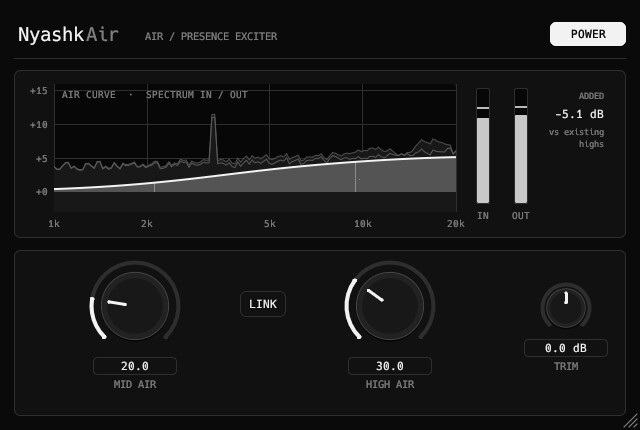
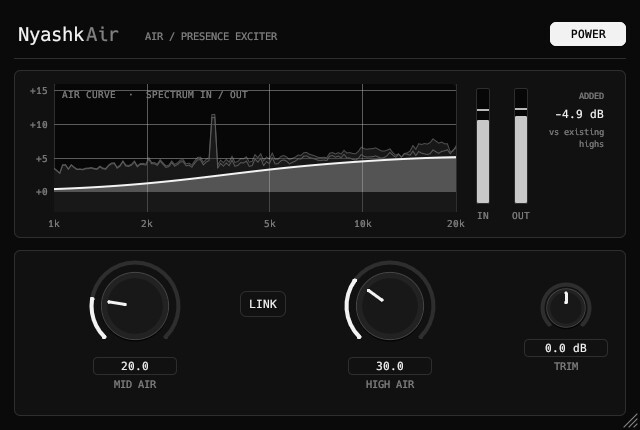
v1.0.2: CPU renderer fill rule, grid over the spectrum, value boxes (gap, fit, units), parameter text test
Claude-Session: https://claude.ai/code/session_013jKKu2jZ6gVHt6eEoTXE3F

diff --git a/vendor/egui-baseview/src/renderer/software.rs b/vendor/egui-baseview/src/renderer/software.rs
@@ -276,6 +276,23 @@ fn raster_triangle(
     let a0 = (p1y - p2y) * inv_area;
     let a1 = (p2y - p0y) * inv_area;
     let a2 = -a0 - a1;
+    // d(w)/dy per pixel, for the fill rule
+    let b0 = (p2x - p1x) * inv_area;
+    let b1 = (p0x - p2x) * inv_area;
+    let b2 = -b0 - b1;
+    // Exact coverage with the top-left fill rule (as GPUs do). The edge function of a shared
+    // edge is bitwise the negation in the neighbouring triangle, so every pixel centre belongs
+    // to exactly one of them: no double-drawn seams or specks, no holes.
+    let top_left = |a: f32, b: f32| a > 0.0 || (a == 0.0 && b > 0.0);
+    let (tl0, tl1, tl2) = (top_left(a0, b0), top_left(a1, b1), top_left(a2, b2));
+    let sgn = if area > 0.0 { 1.0f32 } else { -1.0 };
+    let edge = |ax: f32, ay: f32, bx: f32, by: f32, px: f32, py: f32| (ax - px) * (by - py) - (ay - py) * (bx - px);
+    let inside = |px: f32, py: f32| -> bool {
+        let e0 = edge(p1x, p1y, p2x, p2y, px, py) * sgn;
+        let e1 = edge(p2x, p2y, p0x, p0y, px, py) * sgn;
+        let e2 = edge(p0x, p0y, p1x, p1y, px, py) * sgn;
+        (e0 > 0.0 || (e0 == 0.0 && tl0)) && (e1 > 0.0 || (e1 == 0.0 && tl1)) && (e2 > 0.0 || (e2 == 0.0 && tl2))
+    };
     const EPS: f32 = -1e-4;
     let n = (max_x - min_x) as f32;
     // constant texel for solid-uv triangles
@@ -305,10 +322,21 @@ fn raster_triangle(
                 empty = true;
             }
         }
-        if empty || klo > khi {
+        if empty {
             continue;
         }
-        let (k0, k1) = (klo as i32, khi as i32);
+        // the estimate above can be off by a pixel at the ends: settle them exactly
+        let (mut k0, mut k1) = ((klo as i32 - 1).max(0), (khi as i32 + 1).min(max_x - min_x - 1));
+        let cx = |k: i32| (min_x + k) as f32 + 0.5;
+        while k0 <= k1 && !inside(cx(k0), py) {
+            k0 += 1;
+        }
+        while k1 >= k0 && !inside(cx(k1), py) {
+            k1 -= 1;
+        }
+        if k0 > k1 {
+            continue;
+        }
         let row = (y * stride + min_x) as usize;
         if let Some((sr, sg, sb, sa)) = const_src {
             if sa == 0 && sr == 0 && sg == 0 && sb == 0 {
@@ -355,6 +383,88 @@ fn raster_triangle(
             }
             let o = row + k as usize;
             fb[o] = blend(fb[o], sr, sg, sb, sa);
+        }
+    }
+}
+
+#[cfg(test)]
+mod raster_tests {
+    use super::*;
+    use egui::epaint::{Vertex, WHITE_UV};
+    use egui::{Color32, Pos2};
+
+    /// Rasterise a fill strip (like a spectrum) and return the framebuffer.
+    fn strip(n: usize, ppp: f32) -> (Vec<u32>, i32, i32) {
+        let (w, h) = (300i32, 150i32);
+        let mut fb = vec![pack(0, 0, 0); (w * h) as usize];
+        let tex = Tex { w: 1, h: 1, px: vec![Color32::WHITE] };
+        let col = Color32::from_white_alpha(26);
+        let mut verts = Vec::new();
+        for i in 0..=n {
+            let x = 10.0 + 170.0 * i as f32 / n as f32;
+            let y = 30.0 + 10.0 * ((i as f32) * 0.7).sin();
+            verts.push(Vertex { pos: Pos2::new(x, y), uv: WHITE_UV, color: col });
+            verts.push(Vertex { pos: Pos2::new(x, 90.0), uv: WHITE_UV, color: col });
+        }
+        for i in 1..=n {
+            let k = 2 * i;
+            for t in [[k - 2, k - 1, k], [k - 1, k + 1, k]] {
+                raster_triangle(&mut fb, w, (0, 0, w, h), ppp, &tex, &verts[t[0]], &verts[t[1]], &verts[t[2]]);
+            }
+        }
+        (fb, w, h)
+    }
+
+    /// A fan of thin and fat triangles (like a rounded rectangle): no holes, nothing twice.
+    #[test]
+    fn fans_have_no_holes() {
+        let (w, h) = (300i32, 200i32);
+        for ppp in [1.0f32, 1.25, 1.5, 2.0] {
+            let mut fb = vec![pack(0, 0, 0); (w * h) as usize];
+            let tex = Tex { w: 1, h: 1, px: vec![Color32::WHITE] };
+            let col = Color32::from_white_alpha(26);
+            let c = Pos2::new(70.3, 60.7);
+            let n = 23;
+            let pts: Vec<Pos2> = (0..n).map(|i| {
+                let a = i as f32 / n as f32 * std::f32::consts::TAU;
+                let r = if i % 3 == 0 { 50.0 } else { 47.3 };
+                Pos2::new(c.x + r * a.cos(), c.y + r * 0.8 * a.sin())
+            }).collect();
+            let v = |p: Pos2| Vertex { pos: p, uv: WHITE_UV, color: col };
+            for i in 1..n - 1 {
+                raster_triangle(&mut fb, w, (0, 0, w, h), ppp, &tex, &v(pts[0]), &v(pts[i]), &v(pts[i + 1]));
+            }
+            let mut bad = 0;
+            for y in ((c.y - 25.0) * ppp) as i32..((c.y + 25.0) * ppp) as i32 {
+                for x in ((c.x - 30.0) * ppp) as i32..((c.x + 30.0) * ppp) as i32 {
+                    let val = fb[(y * w + x) as usize] & 255;
+                    if !(89..=91).contains(&val) {
+                        bad += 1;
+                    }
+                }
+            }
+            assert_eq!(bad, 0, "ppp {ppp}: {bad} pixels with a hole or drawn twice");
+        }
+    }
+
+    #[test]
+    fn shared_edges_are_drawn_once() {
+        for (n, ppp) in [(37usize, 1.0f32), (170, 1.0), (85, 1.0), (300, 1.0), (85, 1.5)] {
+            let (fb, w, _) = strip(n, ppp);
+            // egui encodes white_alpha(26) in gamma space: one layer over black = 90, two = ~171
+            let mut over = 0;
+            let mut seen = std::collections::BTreeMap::new();
+            for y in (42.0 * ppp) as i32..(88.0 * ppp) as i32 {
+                for x in (12.0 * ppp) as i32..(178.0 * ppp) as i32 {
+                    let v = fb[(y * w + x) as usize] & 255;
+                    *seen.entry(v).or_insert(0) += 1;
+                    if v > 91 || v < 89 {
+                        over += 1;
+                    }
+                }
+            }
+            println!("n {n} ppp {ppp}: values {seen:?}");
+            assert_eq!(over, 0, "{over} pixels drawn more than once (n {n}, ppp {ppp})");
         }
     }
 }

diff --git a/crates/common/src/ui.rs b/crates/common/src/ui.rs
@@ -147,7 +147,8 @@ pub fn knob_ac<P: Param>(ui: &mut Ui, setter: &ParamSetter, p: &P, label: &str, 
 
     // value + label (click the value box to type a number)
     let val = p.normalized_value_to_string(norm, true);
-    let vr = Rect::from_center_size(Pos2::new(cell.center().x, c.y + r + 14.0), Vec2::new(cell.width().min(84.0), 18.0));
+    // a small gap to the neighbouring boxes
+    let vr = Rect::from_center_size(Pos2::new(cell.center().x, c.y + r + 14.0), Vec2::new((cell.width() - 6.0).min(84.0), 18.0));
     let edit_id = egui::Id::new(("knob_edit", label, p.name()));
     let editing: Option<String> = ui.data(|d| d.get_temp::<String>(edit_id));
     painter_label(ui, cell, vr, label);
@@ -180,9 +181,16 @@ pub fn knob_ac<P: Param>(ui: &mut Ui, setter: &ParamSetter, p: &P, label: &str, 
         let vresp = ui.allocate_rect(vr, Sense::click()).on_hover_text("Click to type a value");
         let painter = ui.painter();
         painter.rect_stroke(vr, CornerRadius::same(4), Stroke::new(1.0, if vresp.hovered() { DIM } else { LINE }), StrokeKind::Inside);
-        painter.text(vr.center(), Align2::CENTER_CENTER, &val, mono(11.0), WHITE);
+        // shrink the text if it would not fit the box
+        let gw = ui.fonts(|f| f.layout_no_wrap(val.clone(), mono(11.0), WHITE).size().x);
+        let size = if gw > vr.width() - 6.0 { (11.0 * (vr.width() - 6.0) / gw).max(7.5) } else { 11.0 };
+        painter.text(vr.center(), Align2::CENTER_CENTER, &val, mono(size), WHITE);
         if vresp.clicked() {
-            let plain = val.trim().split(' ').next().unwrap_or("").to_string();
+            // start editing with the bare number, unless the number alone would mean something
+            // else (e.g. "1.03 s" -> "1.03" would be read as milliseconds): then keep the full text
+            let first = val.trim().split(' ').next().unwrap_or("").to_string();
+            let same = p.string_to_normalized_value(&first).map(|m| p.normalized_value_to_string(m, true)).as_deref() == Some(val.as_str());
+            let plain = if same { first } else { val.trim().to_string() };
             ui.data_mut(|d| d.insert_temp(edit_id, plain));
         }
     }
@@ -315,18 +323,20 @@ pub fn led(ui: &Ui, c: Pos2, on: bool) {
 /// Fill the area between a polyline and the horizontal line `base_y`.
 /// egui fills only convex polygons, so a spectrum has to be drawn as a strip of quads.
 pub fn fill_under(painter: &egui::Painter, pts: &[Pos2], base_y: f32, color: Color32) {
+    // one triangle strip with shared vertices: neighbouring columns never overlap, so a
+    // translucent fill stays even (no brighter seams or specks)
     if pts.len() < 2 {
         return;
     }
     let mut mesh = egui::epaint::Mesh::default();
-    let uv = egui::epaint::WHITE_UV;
-    for w in pts.windows(2) {
-        let (a, b) = (w[0], w[1]);
-        let i = mesh.vertices.len() as u32;
-        for p in [a, b, Pos2::new(b.x, base_y), Pos2::new(a.x, base_y)] {
-            mesh.vertices.push(egui::epaint::Vertex { pos: p, uv, color });
+    for (i, q) in pts.iter().enumerate() {
+        mesh.colored_vertex(*q, color);
+        mesh.colored_vertex(Pos2::new(q.x, base_y), color);
+        if i > 0 {
+            let k = (2 * i) as u32;
+            mesh.add_triangle(k - 2, k - 1, k);
+            mesh.add_triangle(k - 1, k + 1, k);
         }
-        mesh.indices.extend_from_slice(&[i, i + 1, i + 2, i, i + 2, i + 3]);
     }
     painter.add(egui::Shape::mesh(mesh));
 }

diff --git a/plugins/nyashkair/tests/param_text.rs b/plugins/nyashkair/tests/param_text.rs
@@ -1,0 +1,37 @@
+//! Parameter texts: typing back what the plugin shows must give the same value (click a value
+//! box, press Enter: nothing may change), and no value may show as "-0".
+use nih_plug::prelude::*;
+
+#[test]
+fn displayed_values_parse_back() {
+    let p = nyashkair::AirParams::default();
+    let mut bad: Vec<String> = Vec::new();
+    for (id, ptr, _) in p.param_map() {
+        let mut reported = false;
+        for i in 0..=400 {
+            let n = i as f32 / 400.0;
+            let (shown, bare) = unsafe { (ptr.normalized_value_to_string(n, true), ptr.normalized_value_to_string(n, false)) };
+            // what a value box starts editing with: the bare number, or the full text when the
+            // number alone would mean something else
+            let first = shown.trim().split(' ').next().unwrap_or("").to_string();
+            let same = unsafe { ptr.string_to_normalized_value(&first).map(|m| ptr.normalized_value_to_string(m, true)) }.as_deref() == Some(shown.as_str());
+            let prefill = if same { first } else { shown.trim().to_string() };
+            for txt in [shown.clone(), bare.clone(), prefill] {
+                let back = unsafe { ptr.string_to_normalized_value(&txt).map(|m| ptr.normalized_value_to_string(m, true)) };
+                if back.as_deref() != Some(shown.as_str()) && !reported {
+                    bad.push(format!("{id}: typed '{txt}' -> {:?}, shown '{shown}'", back));
+                    reported = true;
+                }
+            }
+            let num = shown.trim().split(' ').next().unwrap_or("");
+            if (num == "-0" || num.starts_with("-0.") && num[3..].chars().all(|c| c == '0')) && !reported {
+                bad.push(format!("{id}: shows negative zero '{shown}'"));
+                reported = true;
+            }
+        }
+    }
+    for b in &bad {
+        println!("BAD: {b}");
+    }
+    assert!(bad.is_empty(), "{} parameters have text problems", bad.len());
+}

diff --git a/plugins/nyashkair/src/editor.rs b/plugins/nyashkair/src/editor.rs
@@ -75,6 +75,13 @@ pub fn create(params: Arc<AirParams>, meters: Arc<Meters>) -> Option<Box<dyn Edi
                 let f_top = f_hi.min(fs * 0.49);
                 let out_pts = st.spec_out.points(fs, f_lo, f_top, 140, 4.5, fx, sy);
                 draw_spectrum(&painter, g, &out_pts, Color32::from_gray(24), Color32::from_gray(80));
+                // grid stays visible over the spectrum
+                for d in [5.0f32, 10.0, 15.0] {
+                    painter.with_clip_rect(g).hline(g.left()..=g.right(), dy(d), Stroke::new(1.0, Color32::from_white_alpha(7)));
+                }
+                for f in [2000.0f32, 5000.0, 10000.0] {
+                    painter.with_clip_rect(g).vline(fx(f), g.top()..=g.bottom(), Stroke::new(1.0, Color32::from_white_alpha(7)));
+                }
                 let in_pts = st.spec_in.points(fs, f_lo, f_top, 140, 4.5, fx, sy);
                 painter.with_clip_rect(g).add(egui::Shape::line(in_pts, PathStroke::new(1.0, Color32::from_rgb(0x5a, 0x5a, 0x5a))));
                 let (m, h) = (p.mid.value() / 100.0, p.high.value() / 100.0);

diff --git a/RELEASE_NOTES.md b/RELEASE_NOTES.md
@@ -1,3 +1,11 @@
+## NyashkAir 1.0.2
+
+- **Display fix:** the built-in CPU renderer (used when Vulkan is not available) drew pixels on the shared edges of triangles twice, which showed as brighter seams and specks in see-through fills (spectra, curves, bars). It now uses an exact fill rule like a GPU: every pixel is drawn once, without holes.
+- The frequency grid stays visible over the live spectrum.
+- Value boxes have a small gap between them, and a value that would not fit its box is drawn smaller instead of running over the frame.
+- Clicking a value box and pressing Enter no longer changes a value whose unit matters (for example "1.03 s" was read back as 1.03 ms).
+- New automatic test: every parameter's text is typed back over its whole range and must give the same value.
+
 ## NyashkAir 1.0.1
 
 - **Live spectrum:** the input (thin line) and output (filled) spectrum now run behind the air curve, so you see exactly what the plugin adds to the top end.
